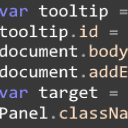
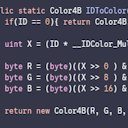
он отойдёт не надолго

diff --git a/source/Videos.js b/source/Videos.js
@@ -77,7 +77,7 @@ const TAGS = {
 	[T_GarrysMod       ]: ["Garry's Mod", "source/GarrysMod.png", "В этом видео играли в Garry's Mod"],
 	[T_Lithuism        ]: ["Литуизм", "alchemy/религия.png", "В этом видео есть литуизм"],
 	[T_Backrooms       ]: ["Backrooms", "source/Backrooms.png", "В видео есть Backrooms"],
-	[T_Glitch          ]: ["Глитч", "source/Glitch.png", "В видео есть глитчи, эффекты, баги"],
+	[T_Glitch          ]: ["Глитч", "source/glitch.gif", "В видео есть глитчи, эффекты, баги"],
 	[T_Coding          ]: ["Кодинг", "source/Coding.png", "В видео есть кодинг"],
 	[T_Video           ]: ["Другие видео", "source/YOUTUBE.png", "В видео смотрели другие видео"],
 	[T_HalfSword       ]: ["HalfSword", "source/HalfSword.png", "В этом видео играли в HalfSword"],
@@ -267,6 +267,194 @@ const VIDEOS = [
 	/* ID, Название видео, Дата создания (дата, время), Ссылка, Дата публикации, Длительность видео, Публичность, Теги, Описание */
 
 	// FREE ->
+	
+	[823, "~", "2026.05.19 17:18:02", "qGjCLSWhwy0", "2026.08.09", "5:01:25", P_Hide,
+	[T_Woowz11, T_WIP, T_Skrepka],
+	""],
+	
+	[822, "~", "2026.05.26 22:04:20", "CSWaOUQHN3I", "2026.08.09", "4:57:21", P_Hide,
+	[T_Woowz11, T_WIP],
+	""],
+	
+	[821, "~", "2026.05.28 12:22:43", "8FtAsh8apQM", "2026.08.09", "5:07:40", P_Hide,
+	[T_Woowz11, T_WIP],
+	""],
+	
+	[820, "~", "2026.06.14 12:23:34", "dhbM-3UNH7U", "2026.08.09", "5:13:05", P_Hide,
+	[T_Woowz11, T_WIP],
+	""],
+	
+	[819, "~", "2026.06.30 12:28:34", "uykgqy_mlbs", "2026.08.09", "5:00:52", P_Hide,
+	[T_Woowz11, T_WIP],
+	""],
+	
+	[818, "~", "2026.07.13 12:45:55", "xIYUEFGtlTM", "2026.08.09", "5:22:15", P_Hide,
+	[T_Woowz11, T_WIP],
+	""],
+	
+	[817, "~", "2026.07.15 18:45:57", "Z2x08jj7wMk", "2026.08.09", "4:45:09", P_Hide,
+	[T_Woowz11, T_WIP],
+	""],
+	
+	[816, "~", "2026.07.18 14:51:16", "KjApPG63RKo", "2026.08.09", "4:49:07", P_Hide,
+	[T_Woowz11, T_WIP],
+	""],
+	
+	[815, "~", "2026.07.28 10:56:23", "LAP6afh0ZFo", "2026.08.09", "4:53:38", P_Hide,
+	[T_Woowz11, T_WIP],
+	""],
+	
+	[814, "~", "2026.07.22 19:55:54", "q_pCFgHl4e8", "2026.08.09", "4:49:15", P_Hide,
+	[T_Woowz11, T_WIP],
+	""],
+	
+	[813, "~", "2026.07.30 10:01:18", "nDKy6w1AAT4", "2026.08.09", "5:02:37", P_Hide,
+	[T_Woowz11, T_WIP],
+	""],
+	
+	[812, "~", "2026.08.01 19:37:12", "KDL0Uu0Otfo", "2026.08.09", "4:55:54", P_Hide,
+	[T_Woowz11, T_WIP],
+	""],
+	
+	[811, "~", "2026.08.03 12:14:07", "5Q0ql8Hd1kU", "2026.08.09", "4:32:37", P_Hide,
+	[T_Woowz11, T_WIP],
+	""],
+	
+	[810, "~", "2026.08.04 19:07:42", "8x-M0hb7qHA", "2026.08.09", "4:43:52", P_Hide,
+	[T_Woowz11, T_WIP],
+	""],
+	
+	[809, "~", "2026.05.29 22:41:05", "U38x0-bgijw", "2026.08.08", "1:24:46", P_Hide,
+	[T_Woowz11, T_WIP],
+	""],
+	
+	[808, "~", "2026.05.30 22:22:43", "zsQzTjF6JKs", "2026.08.08", "1:48:38", P_Hide,
+	[T_Woowz11, T_WIP],
+	""],
+	
+	[807, "~", "2026.06.12 21:23:11", "UL78W5J6s_4", "2026.08.08", "1:44:18", P_Hide,
+	[T_Woowz11, T_WIP, T_Minecraft],
+	""],
+	
+	[806, "~", "2026.06.16 10:09:26", "SWCjGkWUJT4", "2026.08.08", "2:01:28", P_Hide,
+	[T_Woowz11, T_WIP],
+	""],
+	
+	[805, "~", "2026.06.19 11:43:47", "gvJlF8d_sf0", "2026.08.08", "1:39:52", P_Hide,
+	[T_Woowz11, T_WIP, T_Skrepka, T_Minecraft],
+	""],
+	
+	[804, "~", "2026.06.19 14:26:08", "4Iqy2zyTdbc", "2026.08.08", "1:24:04", P_Hide,
+	[T_Woowz11, T_WIP],
+	""],
+	
+	[803, "~", "2026.06.19 20:27:15", "5BUV7tuDw3c", "2026.08.08", "1:22:36", P_Hide,
+	[T_Woowz11, T_WIP],
+	""],
+	
+	[802, "~", "2026.07.02 11:02:15", "GcPFYATYfOk", "2026.08.08", "1:40:51", P_Hide,
+	[T_Woowz11, T_WIP, T_Skrepka],
+	""],
+
+	[801, "~", "2026.07.09 22:55:26", "5_iGOVRU0ig", "2026.08.08", "1:30:54", P_Hide,
+	[T_Woowz11, T_WIP, T_Skrepka],
+	"Начало эпичное"],
+
+	[800, "~", "2026.07.16 19:36:57", "CbINj86zxfQ", "2026.08.08", "1:45:21", P_Hide,
+	[T_Woowz11, T_WIP, T_Minecraft, T_Skrepka],
+	"HBM"],
+
+	[799, "~", "2026.07.18 20:45:38", "i7y-4vPtLEA", "2026.08.08", "1:52:14", P_Hide,
+	[T_Woowz11, T_WIP, T_Skrepka],
+	""],
+
+	[798, "~", "2026.07.20 19:21:39", "bSyzS-eULxA", "2026.08.08", "1:34:19", P_Hide,
+	[T_Woowz11, T_WIP, T_Skrepka, T_GarrysMod],
+	""],
+
+	[797, "~", "2026.07.31 19:42:15", "3l7DfqCRShY", "2026.08.08", "1:52:59", P_Hide,
+	[T_Woowz11, T_WIP],
+	""],
+
+	[796, "~", "2026.08.01 11:29:58", "Ji58mYv-mRA", "2026.08.08", "1:55:06", P_Hide,
+	[T_Woowz11, T_WIP],
+	""],
+
+	[795, "~", "2026.05.09 21:18:27", "AyeawW_eCho", "2026.08.07", "3:56:11", P_Hide,
+	[T_Woowz11, T_WIP],
+	""],
+
+	[794, "~", "2026.04.06 21:48:15", "V8whvmrqlwU", "2026.08.07", "3:13:20", P_Hide,
+	[T_Woowz11, T_WIP, T_Wyldi],
+	""],
+
+	[793, "~", "2026.05.15 19:10:42", "8NWSnhmfCAQ", "2026.08.07", "6:03:02", P_Hide,
+	[T_Woowz11, T_WIP],
+	""],
+
+	[792, "~", "2026.05.17 20:36:13", "zPFR9eN-o4o", "2026.08.07", "4:32:19", P_Hide,
+	[T_Woowz11, T_WIP],
+	""],
+
+	[791, "~", "2026.06.22 23:13:59", "zQ1QMZf-Zls", "2026.08.07", "1:12:09", P_Hide,
+	[T_Woowz11, T_WIP, T_GarrysMod],
+	""],
+
+	[790, "~", "2026.05.13 17:45:39", "crkOETdBK1w", "2026.08.07", "3:35:49", P_Hide,
+	[T_Woowz11, T_WIP, T_Ivan],
+	""],
+
+	[789, "~", "2026.06.16 23:08:58", "_2Db_c6b4ZI", "2026.08.07", "52:52", P_Hide,
+	[T_Woowz11, T_WIP, T_Skrepka],
+	""],
+
+	[788, "~", "2026.06.21 22:49:48", "MClHKnfxfSI", "2026.08.07", "54:43", P_Hide,
+	[T_Woowz11, T_WIP, T_Skrepka],
+	""],
+
+	[787, "~", "2026.06.22 22:21:21", "1NbfiRbIFx8", "2026.08.07", "52:09", P_Hide,
+	[T_Woowz11, T_WIP],
+	""],
+
+	[786, "~", "2026.06.27 22:45:47", "ef8eZE-73Bs", "2026.08.07", "1:05:54", P_Hide,
+	[T_Woowz11, T_WIP],
+	""],
+
+	[785, "~", "2026.07.01 23:05:50", "h6Ed_3H9HBw", "2026.08.07", "53:38", P_Hide,
+	[T_Woowz11, T_WIP, T_Skrepka],
+	""],
+
+	[784, "~", "2026.07.08 23:35:12", "dh2Gd3YvZeY", "2026.08.07", "29:37", P_Hide,
+	[T_Woowz11, T_WIP],
+	""],
+
+	[783, "~", "2026.05.21 17:24:20", "Z2lvOk1UcvI", "2026.08.07", "45:18", P_Hide,
+	[T_Woowz11, T_WIP],
+	""],
+
+	[782, "~", "2026.06.15 00:44:13", "25kxofvCTjw", "2026.08.07", "1:00:51", P_Hide,
+	[T_Woowz11, T_WIP],
+	""],
+
+	[781, "~", "2026.07.12 11:55:02", "-fWQ0U4UPHY", "2026.08.07", "1:01:51", P_Hide,
+	[T_Woowz11, T_WIP, T_Skrepka],
+	""],
+
+	[780, "~", "2026.07.19 11:53:35", "GeD6rKsOV38", "2026.08.07", "45:38", P_Hide,
+	[T_Woowz11, T_WIP],
+	""],
+
+	[779, "~", "2026.07.23 16:10:28", "RnHrvPBgDRA", "2026.08.07", "03:32", P_Hide,
+	[T_Woowz11, T_WIP],
+	""],
+
+	[778, "~", "2026.07.24 12:17:13", "Mef1N6waid4", "2026.08.07", "58:39", P_Hide,
+	[T_Woowz11, T_WIP],
+	""],
+
+	[777, "~", "2026.07.29 21:36:17", "OM1GS86IqNU", "2026.08.07", "21:35", P_Hide,
+	[T_Woowz11, T_WIP],
+	""],
 	
 	[776, "~", UNKNOWN_Date, "aR4QpGh2m-M", "2026.08.11", "03:18", P_Hide,
 	[T_Woowz11, T_WIP, T_Archive, T_RealLife],

diff --git a/source/source.js b/source/source.js
@@ -46,6 +46,7 @@ const __A_IDK = " (я не помню точно)"
 
 // ADD("ERROR.png", "NAME", __A_WOOWZ)
 
+ADD("horseshit.png", "diarrhée de cheval", __A_SKREP, "2026.09.12")
 ADD("light3.png", "ExtraBackrooms GLSL Light Shaders №3", __A_WOOWZ)
 ADD("light2.png", "ExtraBackrooms GLSL Light Shaders №2", __A_WOOWZ)
 ADD("light1.png", "ExtraBackrooms GLSL Light Shaders №1", __A_WOOWZ)
@@ -428,7 +429,7 @@ WoowzsiteSourceImagesJPG = AddFullnessToTable([
 ],"source/",".jpg")
 
 WoowzsiteSourceImagesGIF = AddFullnessToTable([
-	"download","esqueleto","fire","forest","gif","git","git2","null","null_bug","pet","s","vinil","welcome","wowzsearch","WTR6","loading"
+	"download","esqueleto","fire","forest","gif","git","git2","null","null_bug","pet","s","vinil","welcome","wowzsearch","WTR6","loading","glitch"
 ],"source/",".gif")
 
 WoowzsiteSourceIcons = AddFullnessToTable([
